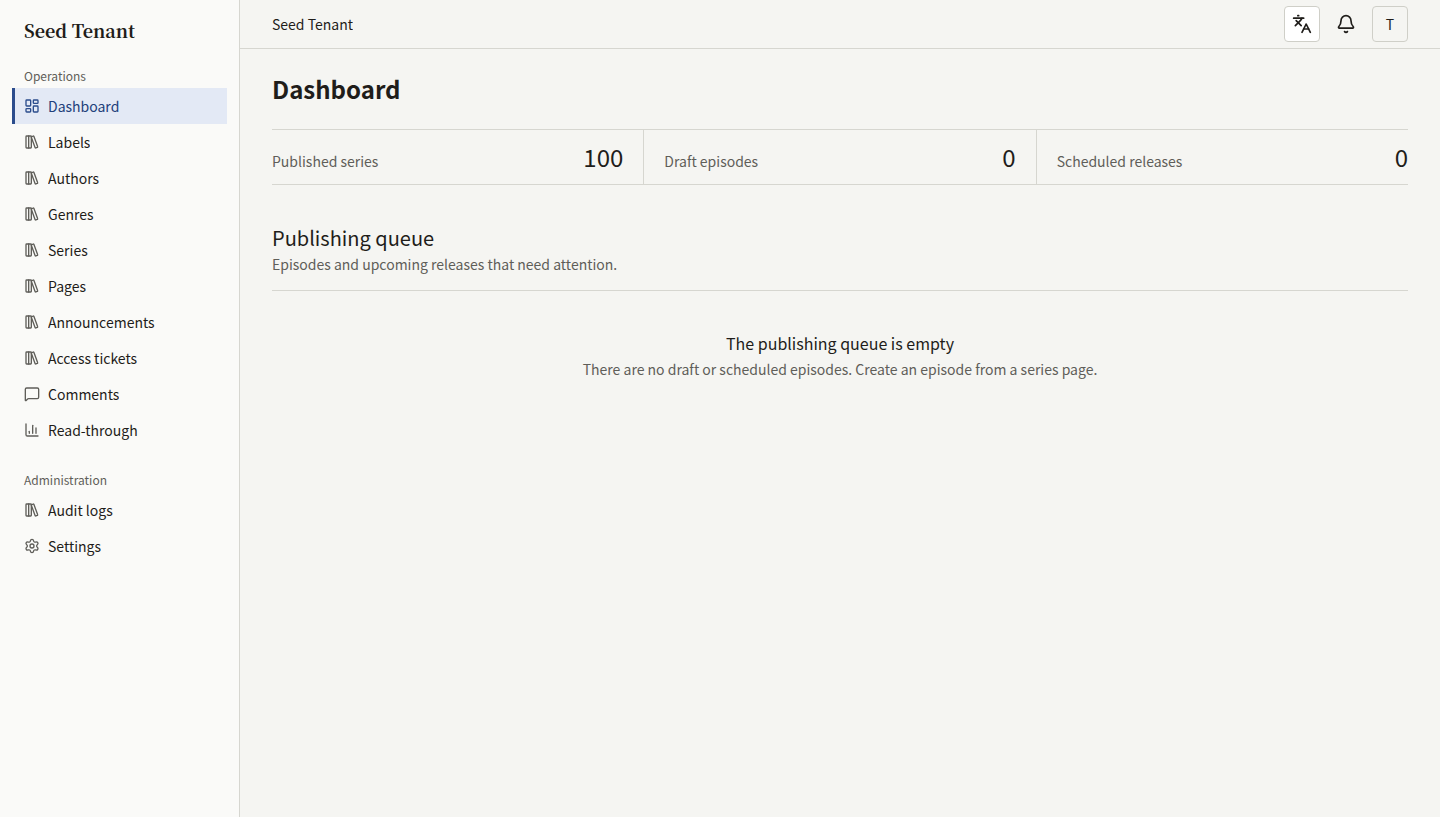
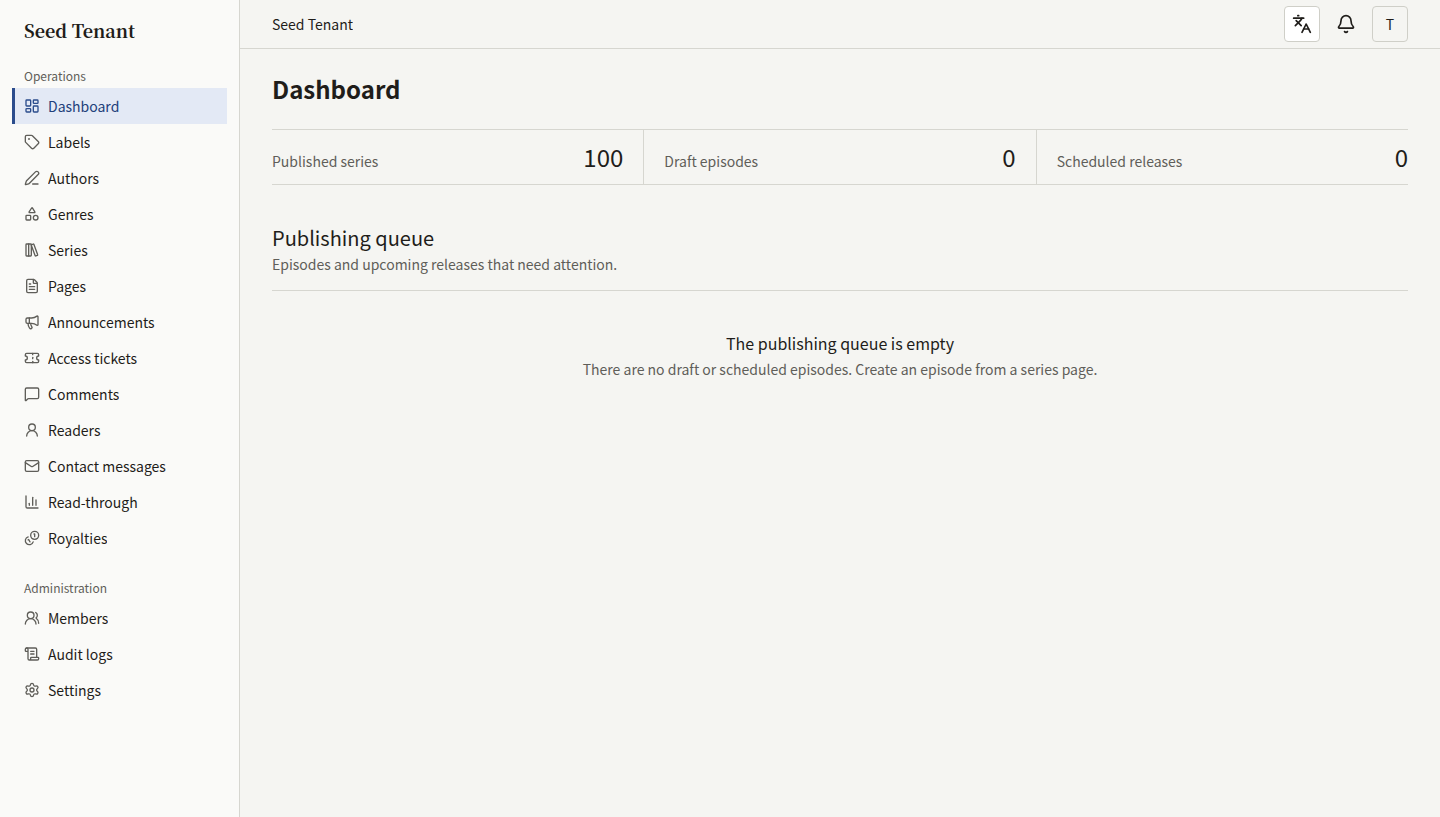
feat: refresh the screens and say what the platform does today
Assisted-by: Claude Code:claude-opus-5-5

diff --git a/app/page.tsx b/app/page.tsx
@@ -21,7 +21,7 @@ import {
 const repositories = [
   {
     description:
-      "The platform itself: three Next.js apps, four Go binaries, a Flutter mobile client, and the Compose stack that runs them all locally.",
+      "The platform itself: three Next.js apps, a Go server and worker that run from one image, a Flutter mobile client, and the Compose stack that runs them all locally.",
     href: "https://github.com/publira/publira",
     language: "TypeScript, Go, and Dart",
     name: "publira/publira",
@@ -49,11 +49,11 @@ const repositories = [
 
 const platformFeatures: readonly Feature[] = [
   {
-    body: "Every publisher runs under its own brand and domain, while a separate platform console manages tenant status, the operators, and the readers of every tenant across the whole install.",
+    body: "Every publisher runs under its own brand and domain, while a separate platform console manages tenant status, the operators, the readers of every tenant, and the settings the whole install shares — object storage, mail, Web Push, and security policy.",
     title: "Multi-tenant from the ground up",
   },
   {
-    body: "Series, episodes, labels, authors and the roles they are credited in, genres, tags, pages, announcements, access tickets, and comments, all from one console with a queue of everything awaiting release.",
+    body: "Series, episodes, labels, authors and the roles they are credited in, genres, tags, pages, announcements, access tickets, comments, and the messages readers send through the contact form, all from one console with a queue of everything awaiting release. A tenant admin invites the rest of the staff from it too.",
     title: "One console for the whole catalog",
   },
   {
@@ -63,6 +63,14 @@ const platformFeatures: readonly Feature[] = [
   {
     body: "An episode is sold as a one-time payment through Stripe Checkout. The redirect unlocks nothing: the purchase is written when the signed webhook arrives, and a refund is recorded against the purchase it reverses.",
     title: "Paid episodes through Stripe",
+  },
+  {
+    body: "A series can be kept to the site or to the app, and an episode can narrow it further; the server answers every catalog read for the surface that asks. Where an episode is sold is set the same way, from a tenant default down to the episode itself.",
+    title: "The site, the app, or both",
+  },
+  {
+    body: "Each credited author carries a share of an episode's sales. A month closes into a statement — by hand, or on the day the tenant chooses — and a closed statement downloads as CSV.",
+    title: "Royalties, closed month by month",
   },
   {
     body: "R15 and R18 titles are marked wherever they are listed, hidden until the reader confirms, and gated on the birth date the account carries — under the verification rule each tenant chooses.",
@@ -77,7 +85,7 @@ const platformFeatures: readonly Feature[] = [
     title: "What readers do feeds the catalog",
   },
   {
-    body: "A new episode reaches a follower in the reader's inbox, as mail an outbox worker delivers, as a Web Push notification the browser shows once the reader has allowed it, and as a push notification on the phone that opens the episode in the app.",
+    body: "A new episode reaches a follower in the reader's inbox, as mail the worker delivers, as a Web Push notification the browser shows once the reader has allowed it, and as a push notification on the phone that opens the episode in the app.",
     title: "Notifications wherever the reader is",
   },
   {
@@ -85,11 +93,11 @@ const platformFeatures: readonly Feature[] = [
     title: "An audit log per tenant",
   },
   {
-    body: "The public, admin, platform, worker, and image roles each connect to PostgreSQL as themselves, so the reader-facing site cannot reach what only an operator should see.",
+    body: "The reader-facing API, the tenant console, the platform console, and each background job connect to PostgreSQL as roles of their own, with row-level security keeping every tenant's rows apart, so the reader-facing site cannot reach what only an operator should see.",
     title: "Role-separated database access",
   },
   {
-    body: "Episode pages and eye-catches upload to S3-compatible storage and are delivered by a dedicated image server, taking the same path locally as they do in production.",
+    body: "Episode pages and eye-catches upload to the S3-compatible bucket set in the platform console, and the server resizes and converts them to WebP or AVIF on the way out, taking the same path locally as it does in production.",
     title: "Object storage and image delivery",
   },
   {
@@ -97,11 +105,15 @@ const platformFeatures: readonly Feature[] = [
     title: "A cache built for many instances",
   },
   {
+    body: "When the connection drops, a navigation, a prefetch, or a form submission waits for it to return instead of failing, and every screen of the three web apps says the connection is gone rather than looking like a slow server.",
+    title: "Built for a dropped connection",
+  },
+  {
     body: "English, Japanese, Korean, and Chinese in both scripts, on the reader site, in both consoles, and in the app — and the tenant's own time zone governs how its records are read.",
     title: "Localized end to end",
   },
   {
-    body: "A Flutter client for Android and iOS under the tenant's own name and theme, calling the same public API as the site: search, follows, purchases through the site's checkout, and episodes saved encrypted on the device to read with no network.",
+    body: "A Flutter client for Android and iOS under the tenant's own name and theme, calling the same public API as the site: accounts from sign-up to deletion, search, follows, announcements and an inbox, purchases through the site's checkout, and episodes saved encrypted on the device to read with no network. Each tenant builds its own app from one manifest.",
     title: "A reader app in the same repository",
   },
   {
@@ -213,20 +225,20 @@ export const Home = () => (
           <ScreenGroup
             address="admin.publisher.example"
             app="apps/web-admin"
-            description="Where editors work: the catalog, the publishing queue, the comments readers left, the theme of the public site, and the record of every change made to any of it."
+            description="Where editors work: the catalog, the publishing queue, the comments and messages readers left, what each author is owed, the theme of the public site, and the record of every change made to any of it."
             screenshots={adminScreenshots}
             title="The tenant console"
           />
           <ScreenGroup
             address="platform.publira.example"
             app="apps/web-platform"
-            description="One level above the tenants, for whoever operates the install: tenant status, cross-tenant events, operators, the readers of every tenant, and platform-wide defaults."
+            description="One level above the tenants, for whoever operates the install: tenant status, cross-tenant events, operators, the readers of every tenant, and the settings every tenant shares, from object storage to security policy."
             screenshots={platformScreenshots}
             title="The platform console"
           />
           <AppScreenGroup
             app="mobile"
-            description="The same catalog on a phone, from one Flutter codebase for Android and iOS, under the tenant's own name and theme. It calls the public API directly rather than going through the site, opens from the site's links, and keeps the episodes a reader has opened or saved on the device."
+            description="The same catalog on a phone, from one Flutter codebase for Android and iOS, under the tenant's own name and theme. It calls the public API directly rather than going through the site, lets a reader sign up and manage the account without leaving it, and keeps the episodes a reader has opened or saved on the device."
             screenshots={mobileScreenshots}
             title="The mobile app"
           />
@@ -235,7 +247,7 @@ export const Home = () => (
 
       <Section
         id="architecture"
-        lead="Next.js at the front, one Go API behind Connect RPC, and nothing underneath that you cannot already run."
+        lead="Next.js at the front, one Go server behind Connect RPC with a worker beside it, and nothing underneath that you cannot already run."
         title="How the pieces fit together"
       >
         <div className="space-y-8">

diff --git a/lib/screenshots.ts b/lib/screenshots.ts
@@ -13,18 +13,20 @@ import adminSeries from "#assets/screenshots/10-admin-series-list.png";
 import adminSeriesForm from "#assets/screenshots/11-admin-series-form.png";
 import adminEpisodes from "#assets/screenshots/12-admin-episode-management.png";
 import adminAuthorRoles from "#assets/screenshots/13-admin-author-roles.png";
-import adminTheme from "#assets/screenshots/14-admin-theme.png";
-import adminThemePreview from "#assets/screenshots/15-admin-theme-preview.png";
-import adminAuditLog from "#assets/screenshots/16-admin-audit-log.png";
-import platformDashboard from "#assets/screenshots/17-platform-dashboard.png";
-import platformTenants from "#assets/screenshots/18-platform-tenants.png";
-import platformUsers from "#assets/screenshots/19-platform-users.png";
-import mobileCatalog from "#assets/screenshots/20-mobile-catalog.png";
-import mobileSearch from "#assets/screenshots/21-mobile-search.png";
-import mobileSeriesDetail from "#assets/screenshots/22-mobile-series-detail.png";
-import mobileViewer from "#assets/screenshots/23-mobile-episode-viewer.png";
-import mobileAuthor from "#assets/screenshots/24-mobile-author.png";
-import mobileDownloads from "#assets/screenshots/25-mobile-downloads.png";
+import adminRoyalties from "#assets/screenshots/14-admin-royalties.png";
+import adminTheme from "#assets/screenshots/15-admin-theme.png";
+import adminThemePreview from "#assets/screenshots/16-admin-theme-preview.png";
+import adminAuditLog from "#assets/screenshots/17-admin-audit-log.png";
+import platformDashboard from "#assets/screenshots/18-platform-dashboard.png";
+import platformTenants from "#assets/screenshots/19-platform-tenants.png";
+import platformUsers from "#assets/screenshots/20-platform-users.png";
+import platformStorage from "#assets/screenshots/21-platform-storage.png";
+import mobileCatalog from "#assets/screenshots/22-mobile-catalog.png";
+import mobileSearch from "#assets/screenshots/23-mobile-search.png";
+import mobileSeriesDetail from "#assets/screenshots/24-mobile-series-detail.png";
+import mobileViewer from "#assets/screenshots/25-mobile-episode-viewer.png";
+import mobileAuthor from "#assets/screenshots/26-mobile-author.png";
+import mobileLibrary from "#assets/screenshots/27-mobile-library.png";
 
 export interface Screenshot {
   readonly caption: string;
@@ -105,13 +107,13 @@ export const adminScreenshots: readonly Screenshot[] = [
   },
   {
     caption:
-      "One series in detail: title, synopsis, reading period, label, and a credit for every author in the role they hold, dragged into the order the credits are shown in. Those credits are the template its new episodes are created from, and changing them leaves the episodes that already exist as they were.",
+      "One series in detail: title, synopsis, reading period, label, and a credit for every author in the role they hold and the share of sales it earns, with the publisher's remainder worked out as the shares are typed. Those credits are the template its new episodes are created from, and changing them leaves the episodes that already exist as they were.",
     image: adminSeriesForm,
     title: "Series form",
   },
   {
     caption:
-      "Every episode of one series in the order readers meet them, each card showing its publication status and its price. Reading order is what a reader sees, so the cards are dragged into it — or moved with an arrow key — rather than renumbered by hand.",
+      "Every episode of one series in the order readers meet them, each card showing its publication status and its price. Reading order is what a reader sees, so the cards are dragged into it — or moved with an arrow key — rather than renumbered by hand, and a selection of them takes a credit added, replaced, removed, or reshared in one step.",
     image: adminEpisodes,
     title: "Episodes",
   },
@@ -120,6 +122,12 @@ export const adminScreenshots: readonly Screenshot[] = [
       "The roles this tenant credits authors in, renamed and moved into the priority the credits follow. The vocabulary belongs to the tenant, so a publisher that separates the artist from the writer says so here instead of living with a fixed list.",
     image: adminAuthorRoles,
     title: "Author roles",
+  },
+  {
+    caption:
+      "A month's sales, refunds, and what each author is owed, cut at the month's edges in the tenant's own time zone. Closing the month turns it into a statement that no later sale changes and that downloads as CSV, and a tenant can have each month closed for it on the day it chooses.",
+    image: adminRoyalties,
+    title: "Royalties",
   },
   {
     caption:
@@ -160,12 +168,18 @@ export const platformScreenshots: readonly Screenshot[] = [
     image: platformUsers,
     title: "Users",
   },
+  {
+    caption:
+      "The one S3-compatible bucket every tenant's uploads go to, set here rather than handed to each process at deploy time. A saved change reaches every running server without a restart, and mail, Web Push, security policy, and retention are set on the tabs beside it.",
+    image: platformStorage,
+    title: "Object storage",
+  },
 ];
 
 export const mobileScreenshots: readonly Screenshot[] = [
   {
     caption:
-      "The week's chart and the newest arrivals above the whole catalog, which asks for another page as the reader scrolls. The app bar carries the tenant's own name and the colors of its theme, so a publisher's app is branded the way its site is rather than as Publira.",
+      "The week's chart and the newest arrivals above the whole catalog, which asks for another page as the reader scrolls. The app bar carries the tenant's own name, the colors of its theme, and the way into its announcements, and a bar along the bottom reaches home, search, the library, notifications, and the account from every screen but the viewer.",
     image: mobileCatalog,
     title: "Catalog",
   },
@@ -195,8 +209,8 @@ export const mobileScreenshots: readonly Screenshot[] = [
   },
   {
     caption:
-      "What the device holds against its cap, by series, with when each episode was saved and its size. Pages are kept encrypted under a key the device mints for itself, and a paid episode stays tied to the account it was bought with, closing again once the API stops confirming the purchase.",
-    image: mobileDownloads,
-    title: "Downloads",
+      "Continue reading, follows, and downloads, each a list of its own. Downloads shows what the device holds against its cap, by series, with when each episode was saved and its size; pages are kept encrypted under a key the device mints for itself, and a paid episode stays tied to the account it was bought with, closing again once the API stops confirming the purchase.",
+    image: mobileLibrary,
+    title: "Library",
   },
 ];

diff --git a/components/architecture.tsx b/components/architecture.tsx
@@ -4,7 +4,7 @@ const layers = [
   { label: "Transport", nodes: ["Connect RPC over Protocol Buffers"] },
   {
     label: "Servers (Go)",
-    nodes: ["api-server", "image-server", "outbox-worker", "batch"],
+    nodes: ["publira server", "publira worker"],
   },
   {
     label: "Infrastructure",
@@ -40,12 +40,15 @@ export const Architecture = () => (
       ))}
     </ol>
     <p className="text-muted-foreground mt-6 text-sm leading-relaxed">
-      One <code>api-server</code> process carries the public, admin, and
-      platform namespaces, and one <code>image-server</code> answers both the
-      reader’s origin and the console’s. Beside them the outbox worker delivers
-      the mail and runs the periodic jobs that promote due episodes, apply the
-      free-window boundaries, and turn over each tenant’s calendar day;{" "}
-      <code>batch</code> holds the one-shot jobs behind a subcommand.
+      One <code>publira server</code> process carries the public, admin, and
+      platform namespaces and delivers the images for both the reader’s origin
+      and the console’s. <code>publira worker</code>, from the same binary,
+      delivers the mail and the push notifications and runs every scheduled job:
+      promoting due episodes, applying the free-window boundaries, turning over
+      each tenant’s calendar day, rebuilding the charts, closing royalty months,
+      and purging what has outlived its retention. Running it is all the
+      scheduling a deployment needs; <code>publiractl</code> runs any of those
+      jobs by hand.
     </p>
     <p className="text-muted-foreground mt-4 text-sm leading-relaxed">
       Every layer is instrumented with{" "}

diff --git a/components/requirements-table.tsx b/components/requirements-table.tsx
@@ -12,7 +12,7 @@ const requirements = [
   {
     name: "S3-compatible object storage",
     purpose:
-      "Episode pages, eye-catches, and the other uploads, delivered through the image server.",
+      "Episode pages, eye-catches, and the other uploads. The bucket is set in the platform console rather than in each process's environment.",
   },
   {
     name: "An SMTP relay",
@@ -22,12 +22,12 @@ const requirements = [
   {
     name: "A Stripe account",
     purpose:
-      "Optional. Paid episodes only: Checkout takes the payment and a signed webhook is what confirms it.",
+      "Optional, one per tenant. Paid episodes only: Checkout takes the payment and a signed webhook is what confirms it.",
   },
   {
     name: "A Firebase project",
     purpose:
-      "Optional. Push notifications to the mobile app, sent through Firebase Cloud Messaging, which relays to APNs for iOS.",
+      "Optional, one per tenant app. Push notifications to the mobile app, sent through Firebase Cloud Messaging, which relays to APNs for iOS.",
   },
   {
     name: "An OpenTelemetry collector",

diff --git a/components/hero.tsx b/components/hero.tsx
@@ -5,7 +5,7 @@ import { heroScreenshot } from "#lib/screenshots";
 
 const facts = [
   { label: "Next.js apps", value: "3" },
-  { label: "Go binaries", value: "4" },
+  { label: "Go processes", value: "2" },
   { label: "Mobile client", value: "Flutter" },
   { label: "Reader languages", value: "5" },
   { label: "License", value: "Apache-2.0" },
